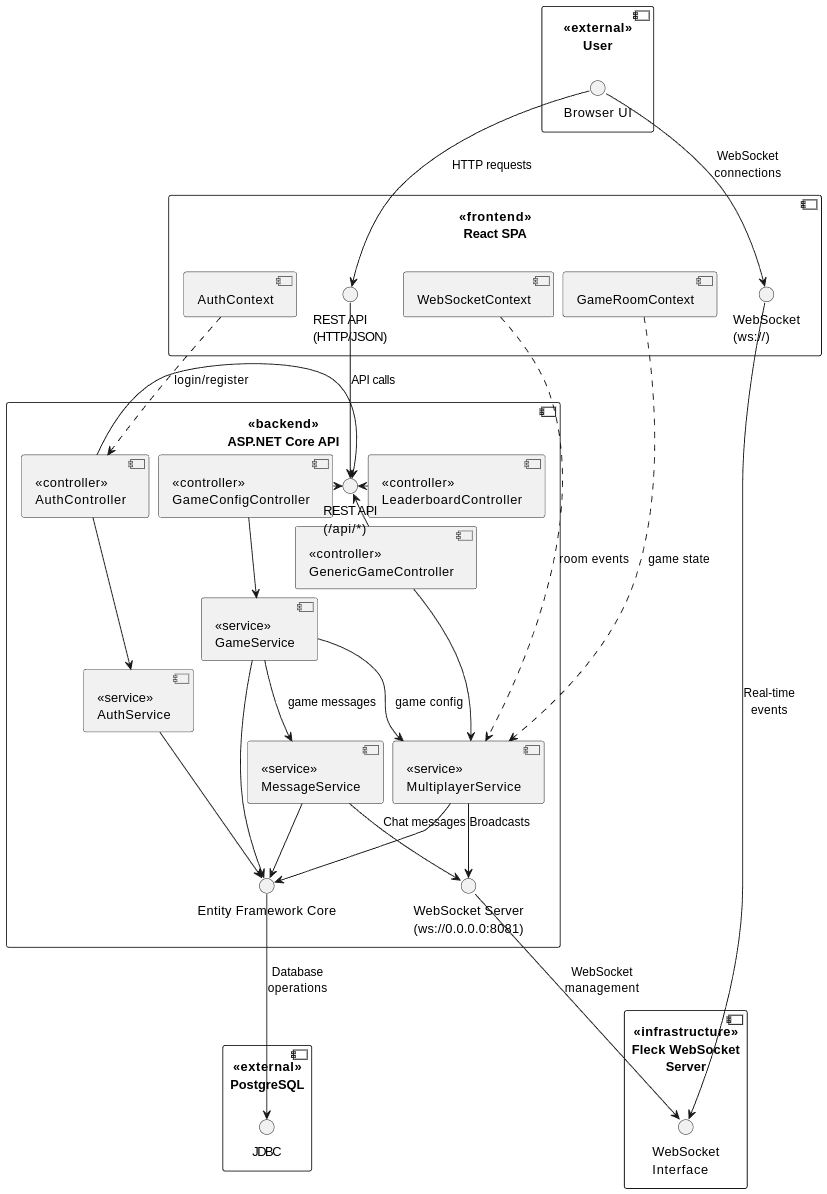
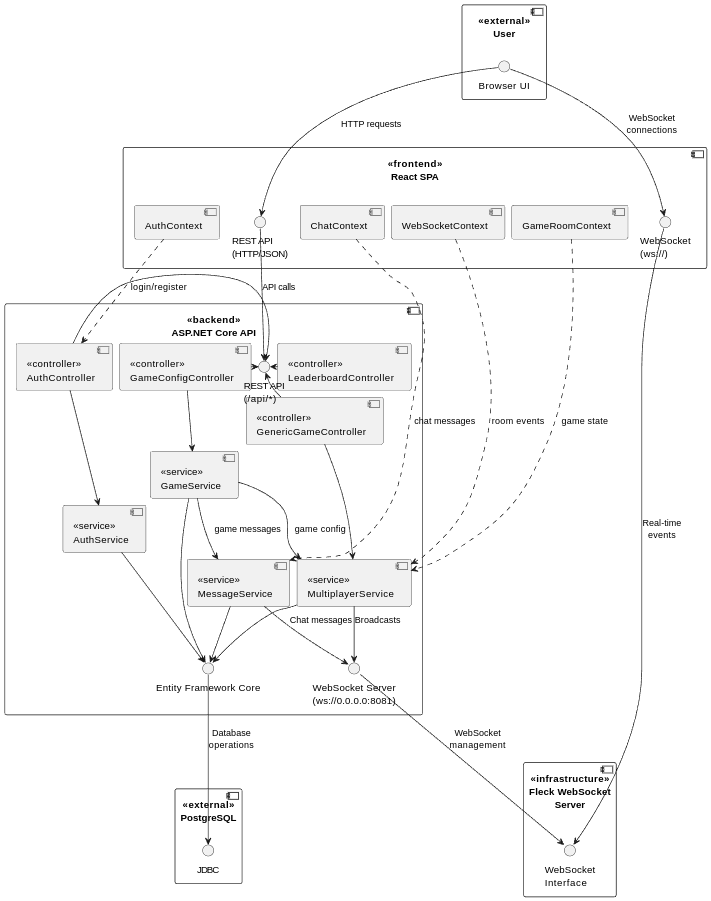
final from my side

diff --git a/Slides/Lab 4/TitlePage.tex b/Slides/Lab 4/TitlePage.tex
@@ -228,7 +228,7 @@
 \section{Deployment and CI/CD Pipeline}
 \begin{frame}{Deployment and CI/CD Pipeline}
     \centering
-    \includegraphics[width=0.5\textwidth]{AutomationAndSections/Sections/7operationalView/Images/Deployment Diagram.drawio.png}
+    \includegraphics[width=1\textwidth]{AutomationAndSections/Sections/7operationalView/Images/pipelinefromgitlab.png}
 \end{frame}
 
 \section{Operational Monitoring Architecture}
